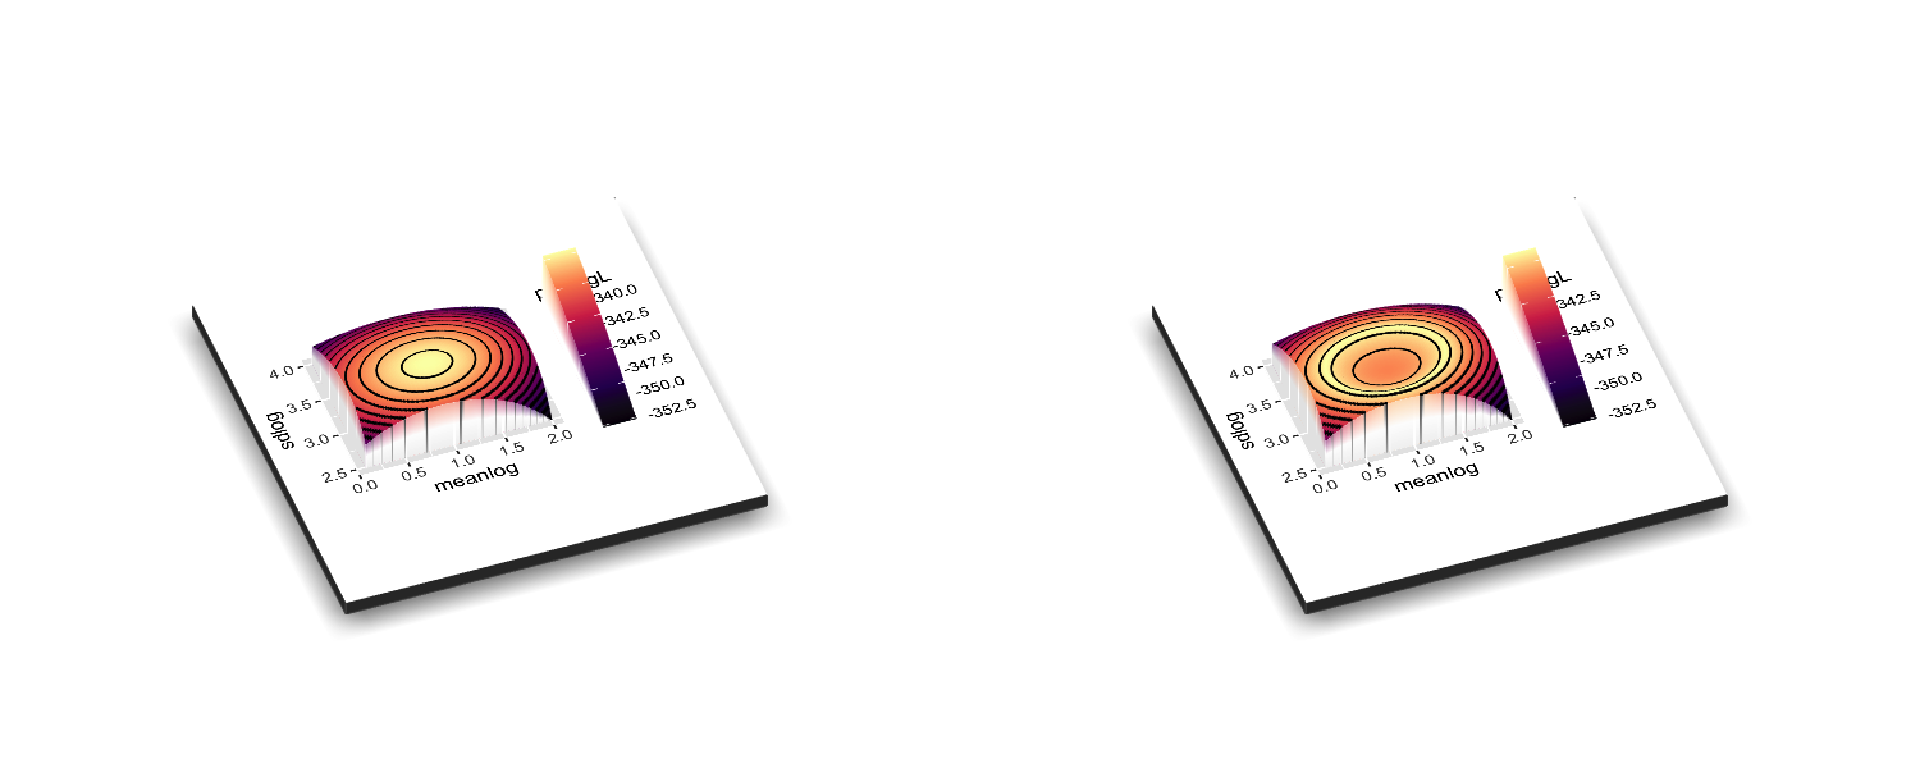
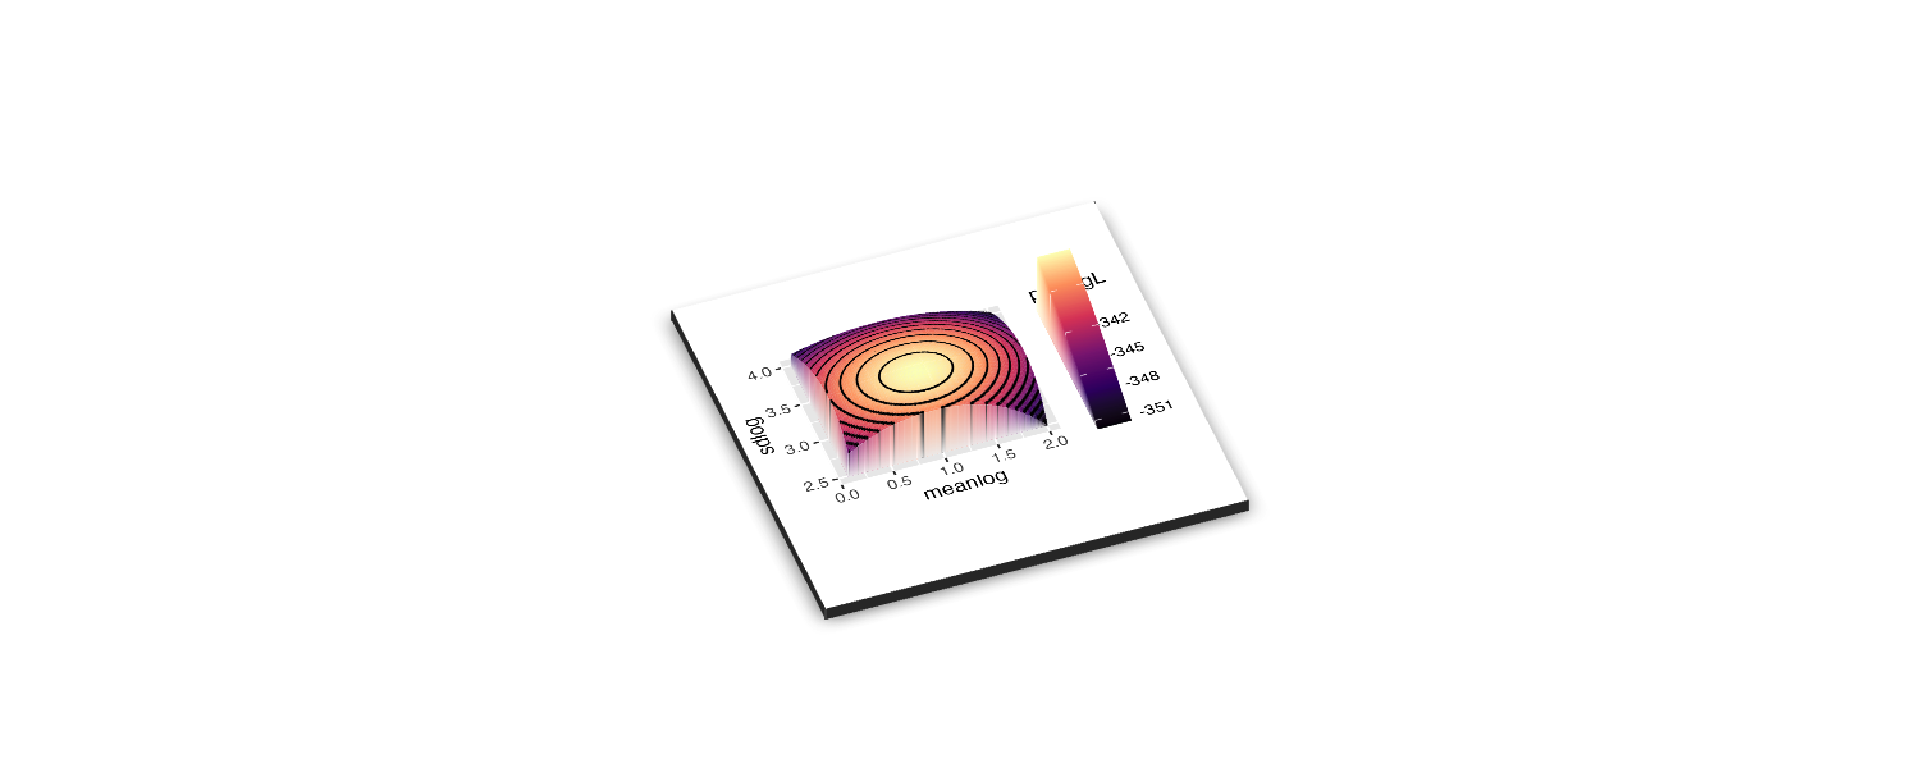
updating the github actions

Changed region(s): [[0.0938, 0.2812, 0.9062, 0.8125]]

diff --git a/README.md b/README.md
@@ -6,6 +6,7 @@
 <!-- badges: start -->
 
 [![R-CMD-check](https://github.com/bomeara/dentist/workflows/R-CMD-check/badge.svg)](https://github.com/bomeara/dentist/actions)
+[![R-CMD-check](https://github.com/bomeara/dentist/actions/workflows/R-CMD-check.yaml/badge.svg)](https://github.com/bomeara/dentist/actions/workflows/R-CMD-check.yaml)
 <!-- badges: end -->
 
 `dentist` is an R package to sample points around a specified distance
@@ -56,8 +57,8 @@ That gives us a point estimate of the best values:
 
 ``` r
 print(best_par)
-#>  meanlog    sdlog 
-#> 0.893797 2.955575
+#>   meanlog     sdlog 
+#> 0.9035365 2.9155160
 ```
 
 But how confident should we be? For familiar distributions like a
@@ -79,53 +80,58 @@ Metropolis-Hastings algorithm around a dented likelihood surface, so
 that values better than the ideal threshold are reflected back. First,
 to show how the original surface (left) is dented (right):
 
-<img src="man/figures/README-awesomeness-1.png" width="100%" />
+<img src="man/figures/README-awesomeness-1.png" width="100%" /><img src="man/figures/README-awesomeness-2.png" width="100%" />
 
 Note that for plotting, it’s shown with the regular log likelihood:
-typically values &lt;&lt; 0, and higher is better. In the package, it
-wants you to use negative log likelihood, so it would be the mirror
-image of these plots (lower better).
+typically values \<\< 0, and higher is better. In the package, it wants
+you to use negative log likelihood, so it would be the mirror image of
+these plots (lower better).
 
 And now to sample around that ring on the right:
 
 ``` r
 library(dentist)
  dented_results <- dent_walk(par=best_par, fn=dlnorm_to_run, best_neglnL=best_neglnL,  nsteps=1000, print_freq=250, sims=sims)
+#> [1] "Calculating intervals at a confidence level of 95%"
 #> [1] "Done replicate 250"
-#> [1] "CI of values"
-#>            X1        X2       X3
-#> [1,] 339.6352 0.6339612 2.626464
-#> [2,] 341.6350 1.4497321 3.418966
+#> [1] "CI of values (the 105 replicates within 2.99573227355399 neglnL of the optimum)"
+#>        neglnL   meanlog    sdlog
+#> [1,] 339.3150 0.3174435 2.511672
+#> [2,] 342.2822 1.5966083 3.461012
+#> [1] "Rough volume of good region is 1.21436251821118"
 #> [1] "Done replicate 500"
-#> [1] "CI of values"
-#>            X1        X2       X3
-#> [1,] 339.6352 0.3506638 2.608558
-#> [2,] 341.6350 1.4884961 3.418966
+#> [1] "CI of values (the 180 replicates within 2.99573227355399 neglnL of the optimum)"
+#>        neglnL   meanlog    sdlog
+#> [1,] 339.3150 0.2776119 2.499837
+#> [2,] 342.2822 1.6138289 3.495837
+#> [1] "Rough volume of good region is 1.33087214415585"
 #> [1] "Done replicate 750"
-#> [1] "CI of values"
-#>            X1        X2       X3
-#> [1,] 339.6352 0.3506638 2.608558
-#> [2,] 341.6350 1.4884961 3.418966
+#> [1] "CI of values (the 255 replicates within 2.99573227355399 neglnL of the optimum)"
+#>        neglnL  meanlog    sdlog
+#> [1,] 339.3150 0.192684 2.499837
+#> [2,] 342.2822 1.613829 3.495837
+#> [1] "Rough volume of good region is 1.41546033655253"
 #> [1] "Done replicate 1000"
-#> [1] "CI of values"
-#>            X1        X2       X3
-#> [1,] 339.6352 0.3326398 2.608558
-#> [2,] 341.6350 1.4884961 3.418966
+#> [1] "CI of values (the 318 replicates within 2.99573227355399 neglnL of the optimum)"
+#>        neglnL  meanlog    sdlog
+#> [1,] 339.3150 0.192684 2.482288
+#> [2,] 342.2822 1.613829 3.495837
+#> [1] "Rough volume of good region is 1.44040005320574"
 ```
 
 This generates information about the confidence:
 
 ``` r
 print(dented_results)
-#> This ran 1000 steps looking for all points within 2 negative log likelihood units of the best parameter values.
+#> This ran 1000 steps looking for all points within 2.99573227355399 negative log likelihood units of the best parameter values.
 #> 
 #> Parameters: 
-#>                     meanlog    sdlog
-#> best             0.89379698 2.955575
-#> lower.CI         0.33263978 2.608558
-#> upper.CI         1.48849614 3.418966
-#> lowest.examined  0.04736823 2.491895
-#> highest.examined 1.60055403 3.560104
+#>                      meanlog     sdlog
+#> best             0.903536538 2.9155160
+#> lower.CI         0.192684020 2.4822875
+#> upper.CI         1.613828879 3.4958366
+#> lowest.examined  0.006333159 0.3362002
+#> highest.examined 2.603547188 5.1997580
 ```
 
 And also has a way to visualize the results:
